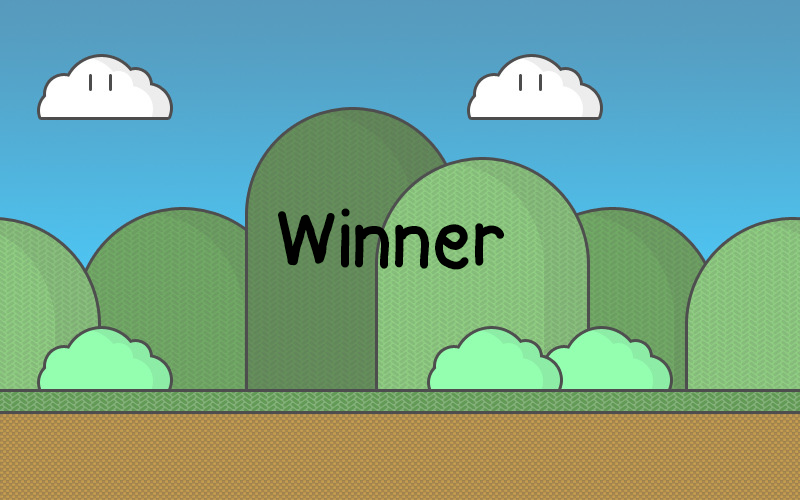
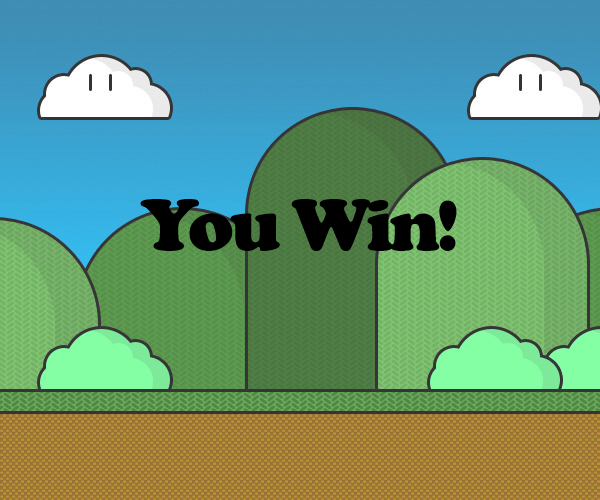
added Loser/Winner Screen and updated all Images for different scenes

diff --git a/lazzaroBreakout/src/main/java/gui/GameScene.java b/lazzaroBreakout/src/main/java/gui/GameScene.java
@@ -95,7 +95,6 @@ public class GameScene extends BaseScene {
         AnimationTimer timer = new AnimationTimer() {
             @Override
             public void handle(long currentTimeInNanoSec) {
-                System.out.println("update");
                 long deltaInNanoSec = currentTimeInNanoSec - lastTimeInNanoSec;
                 double deltaInSec = deltaInNanoSec / 1000000000d;
                 lastTimeInNanoSec = currentTimeInNanoSec;
@@ -139,13 +138,19 @@ public class GameScene extends BaseScene {
             }
         }
 
+        if (wallOfBricks.size() == 0){
+            navigator.goTo(SceneType.WINNER_SCREEN);
+        }
+
         if (ball.getY() > platform.getY()) {
             if (lifes.size() > 0) {
                 lifes.remove(lifes.size() - 1);
                 ball.resetToPlatform();
                 mousewasclicked = false;
-            } else {
+            }
+            else {
                 System.out.println("Game Over");
+                navigator.goTo(SceneType.GAMEOVER_SCREEN);
                 ball.resetToPlatform();
             }
         }
@@ -176,4 +181,5 @@ public class GameScene extends BaseScene {
             }
         }
     }
+
 }

diff --git a/lazzaroBreakout/src/main/java/gui/StartScene.java b/lazzaroBreakout/src/main/java/gui/StartScene.java
@@ -15,6 +15,5 @@ public class StartScene extends BaseScene {
 
     @Override
     public void start() {
-        //TODO
     }
 }
